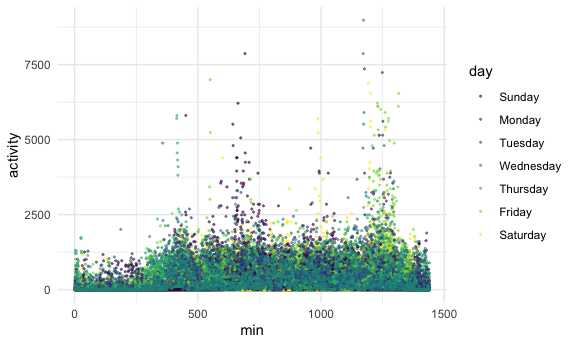
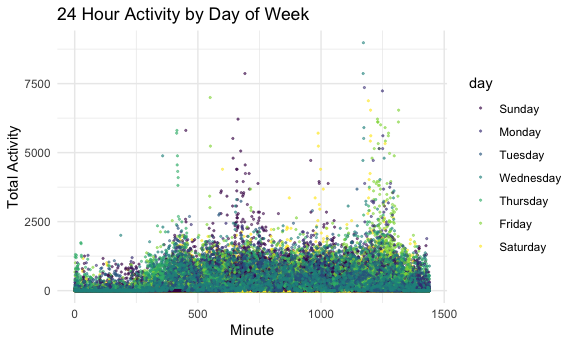
Problems 1, 2 & 3: updating plots (adding titles etc)

diff --git a/p8105_hw3_mtr2143.md b/p8105_hw3_mtr2143.md
@@ -42,36 +42,17 @@ dept_products_total <-
     n_obs = n()
   ) %>% 
   arrange(desc(n_obs)) %>% 
-  filter(department != 'missing') %>% 
-  mutate(
-    over_100k = ifelse(n_obs > 100000, 1, 0)
-  )
+  filter(department != 'missing')
 
-
-dept_less_100k_plot <- 
-  dept_products_total %>% 
-  filter(n_obs < 100000) %>% 
+dept_products_total %>% 
   ggplot(aes(x = reorder(department, n_obs), y = n_obs, fill = n_obs)) +
     geom_bar(stat = "identity") + 
     xlab("Department") + ylab("Count") +
-    scale_y_continuous(breaks = c(0, 20000, 40000, 60000, 80000),
-      labels = c("0", "20k", "40k", "60k", "80k")) +
-    coord_flip() 
-
-dept_ge_100k_plot <-
-  dept_products_total %>% 
-  filter(n_obs >= 100000) %>% 
-  ggplot(aes(x = reorder(department, n_obs), y = n_obs, fill = n_obs)) +
-    geom_bar(stat = "identity") + 
-    xlab("Department") + ylab("Count") +
-    scale_y_continuous(breaks = c(0, 100000, 200000, 300000, 400000),
-      labels = c("0", "100k", "200k", "300k", "400k")) +
-    coord_flip()
-
-(dept_ge_100k_plot + dept_less_100k_plot) +
-  plot_annotation(
-    title = 'Total products ordered by department'
-    )
+    coord_flip() +
+    theme(
+      legend.position = "none"
+          ) +
+    ggtitle(label = "Products Ordered by Department")
 ```
 
 <img src="p8105_hw3_mtr2143_files/figure-gfm/bar plot products dept-1.png" width="90%" />
@@ -114,7 +95,8 @@ order_time_by_day %>%
   ggplot(aes(x = order_dow, y = n_orders , fill = time_of_day)) +
     geom_col() +
     xlab("Day of Week") + ylab("Order Count") +
-    labs(fill = "Time of Day")
+    labs(fill = "Time of Day") +
+    ggtitle(label = "Order Quantity by Day of Week")
 ```
 
 <img src="p8105_hw3_mtr2143_files/figure-gfm/col plot time of day and dow-1.png" width="90%" />
@@ -171,10 +153,12 @@ fruits, yogurt, packaged cheese.
 aisles %>% 
   filter(total_items_ordered > 10000) %>% 
   ggplot(aes(x = reorder(aisle, total_items_ordered), y = total_items_ordered)) +
-    geom_bar(stat = "identity", colour = "black", fill = "white") + 
+    geom_bar(stat = "identity", aes(fill = total_items_ordered)) + 
     xlab("Aisle") + ylab("Count") +
-    theme(axis.text.y = element_text(size = 7)) +
-    coord_flip()
+    theme(axis.text.y = element_text(size = 7),
+          legend.position = "none") +
+    coord_flip() +
+    ggtitle(label = "Number of Items Ordered per Aisle")
 ```
 
 <img src="p8105_hw3_mtr2143_files/figure-gfm/unnamed-chunk-3-1.png" width="90%" />
@@ -345,7 +329,9 @@ brfss %>%
     xlab("Year") + ylab("Mean Data Value") +
     theme(
       legend.position = "right"
-    )
+    ) +
+    ggtitle(label = NULL, subtitle = "Average Data Value over Time among
+            'Excellent' Responses")
 ```
 
 <img src="p8105_hw3_mtr2143_files/figure-gfm/spaghetti plot-1.png" width="90%" />
@@ -363,7 +349,8 @@ brfss %>%
       axis.title.y = element_blank()
           ) + 
     labs(fill = "Response") +
-    facet_grid(rows = vars(year), switch = "y")
+    facet_grid(rows = vars(year), switch = "y") +
+    ggtitle("Data Value Distribution by Responses")
 ```
 
 <img src="p8105_hw3_mtr2143_files/figure-gfm/two panel plot-1.png" width="90%" />
@@ -470,13 +457,14 @@ tot_act_per_day %>%
   xlab("Day of the Week") + ylab("Total Activity") +
   theme(
     legend.position = "none"
-  )
+  ) +
+  ggtitle("Total Activity by Day of the Week")
 ```
 
 <img src="p8105_hw3_mtr2143_files/figure-gfm/total activity per day-1.png" width="90%" />
 
 From the boxplot, we know that Wednesdays have the most consistent
-amount of total activity, while Saturdays are the most variable.
+amount of total activity, while Saturdays are the most spread out.
 However, across all days of the week, there are similar values for the
 median.
 
@@ -486,9 +474,11 @@ median.
 activity %>% 
   ggplot(aes(x = min, y = activity, group = day_id)) +
   geom_point(aes(color = day), size = .4, alpha = .5) +
+  xlab("Minute") + ylab("Total Activity") +
   theme(
     legend.position = "right"
-  ) 
+  ) + 
+  ggtitle("24 Hour Activity by Day of Week")
 ```
 
 <img src="p8105_hw3_mtr2143_files/figure-gfm/24 hour activity by day of week-1.png" width="90%" />
